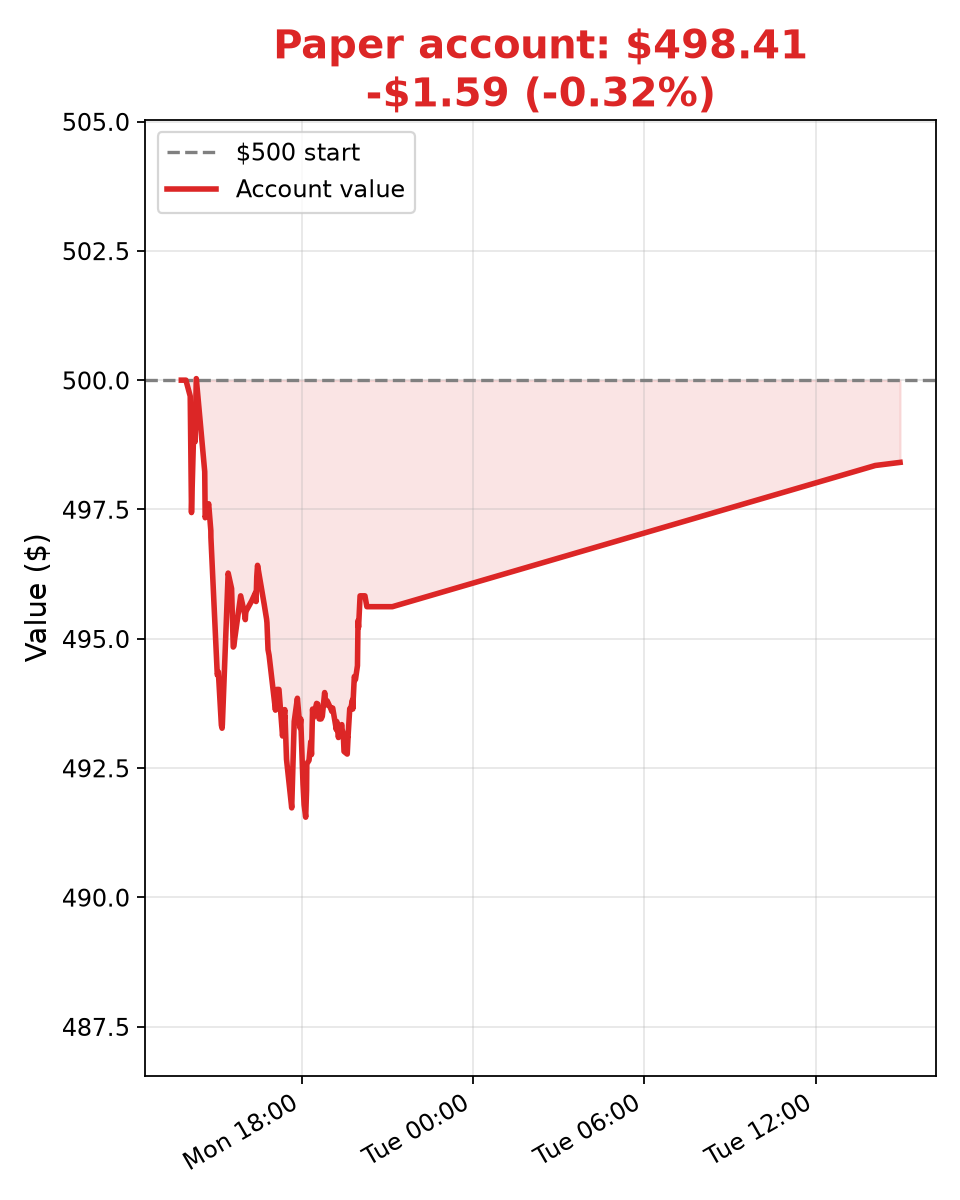
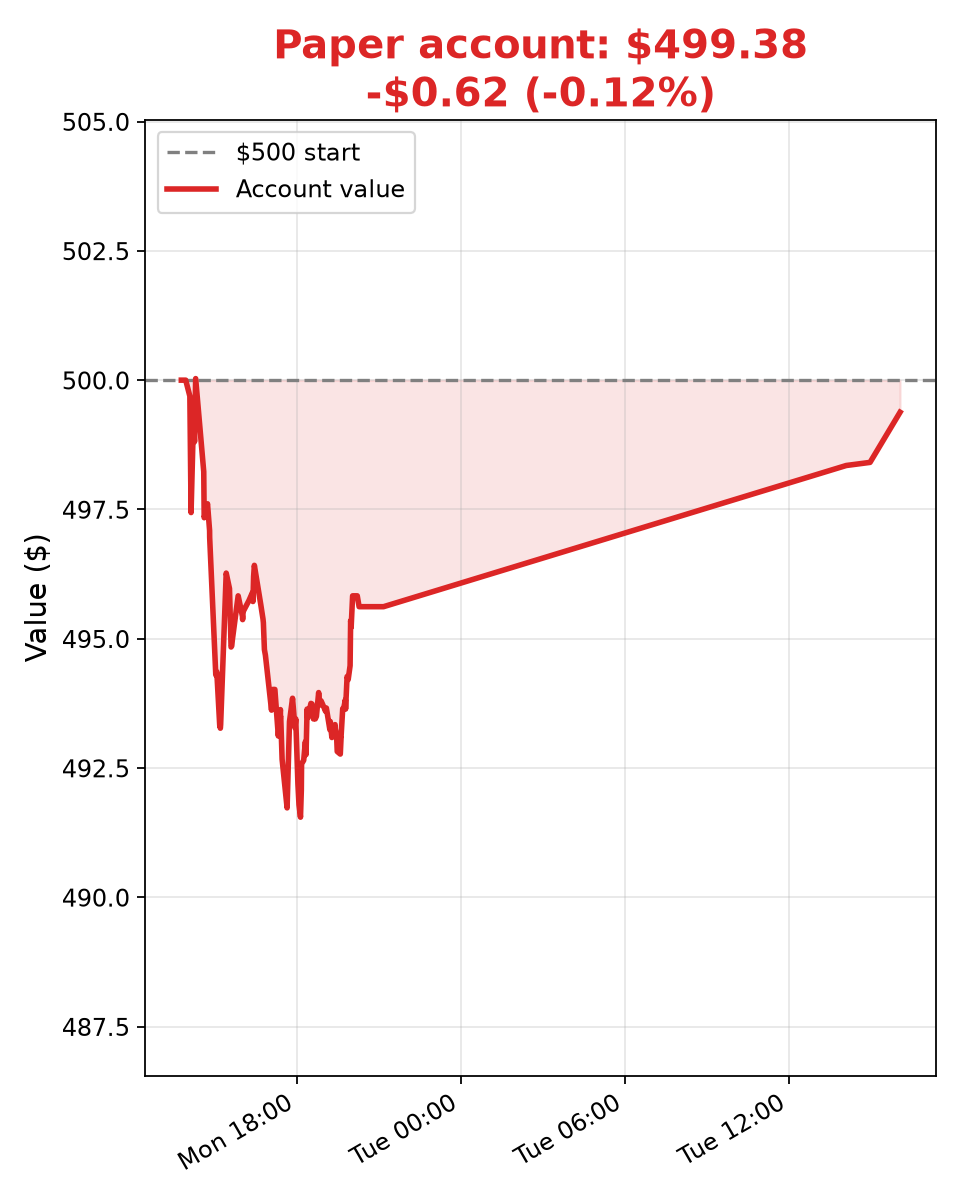
Update 2026-10-13T16:03:16Z

diff --git a/ledger.md b/ledger.md
@@ -7,7 +7,7 @@
 ## Holdings
 | ticker | qty | avg_cost | cost_basis | stop | target |
 |---|---|---|---|---|---|
-| FRO | 2.6923 | 59.429 | 160.00 | 57.90 | 62.50 |
+| FRO | 2.6923 | 59.429 | 160.00 | 58.35 | 62.50 |
 | DHT | 5.3131 | 26.35 | 140.00 | 25.95 | 27.80 |
 
 ## Trades log
@@ -175,3 +175,4 @@
 - 2026-10-12T21:09:51Z — total $495.62, cash $196.95 (Jr post-close mark, 4:09 PM CT, no trade — market closed; FRO 59.19, DHT 26.22 at Yahoo regularMarketPrice official close, unchanged from prior marks; no stops/targets hit; holding overnight with stops 57.90 / 25.40)
 - 2026-10-13T14:05:12Z — total $498.35, cash $196.95 (Stock Bot mark, 9:04 AM CT, no trade; FRO 59.395, DHT 26.63; no stops/targets hit (lows 58.41 / 26.00); DHT above 26.35 entry so stop raised 25.40→25.95 under LOD; FRO just under 59.43 entry, stop stays 57.90; no n≥30 setup with real edge, cash held)
 - 2026-10-13T14:57:21Z — total $498.41, cash $196.95 (Stock Bot mark, 9:57 AM CT, no trade; FRO 59.4, DHT 26.64; no stops/targets hit (lows 58.41 / 26.00 vs 57.90 / 25.95; highs 59.67 / 26.81 vs 62.50 / 27.80); SPY 777.04 soft; breakout/gap edge still thin, cash held)
+- 2026-10-13T16:03:15Z — total $499.38, cash $196.95 (Stock Bot mark, 11:02 AM CT, no trade; FRO 59.55, DHT 26.745; no stops/targets hit (lows 58.41 / 26.00, highs 59.75 / 26.89 vs targets 62.50 / 27.80); FRO back above 59.43 entry so stop raised 57.90→58.35 under LOD; SPY 777.09 soft, cash held)
